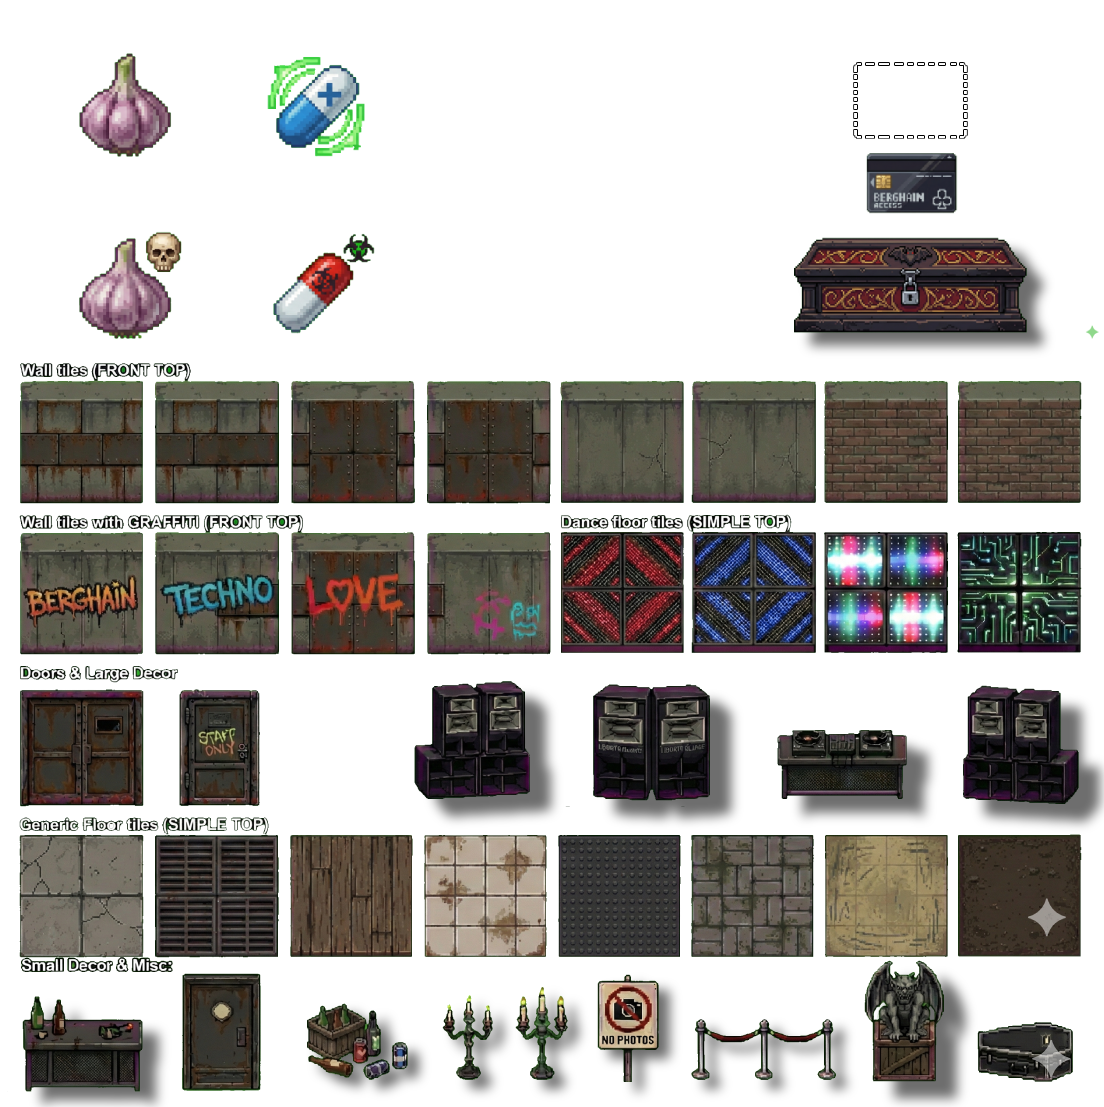
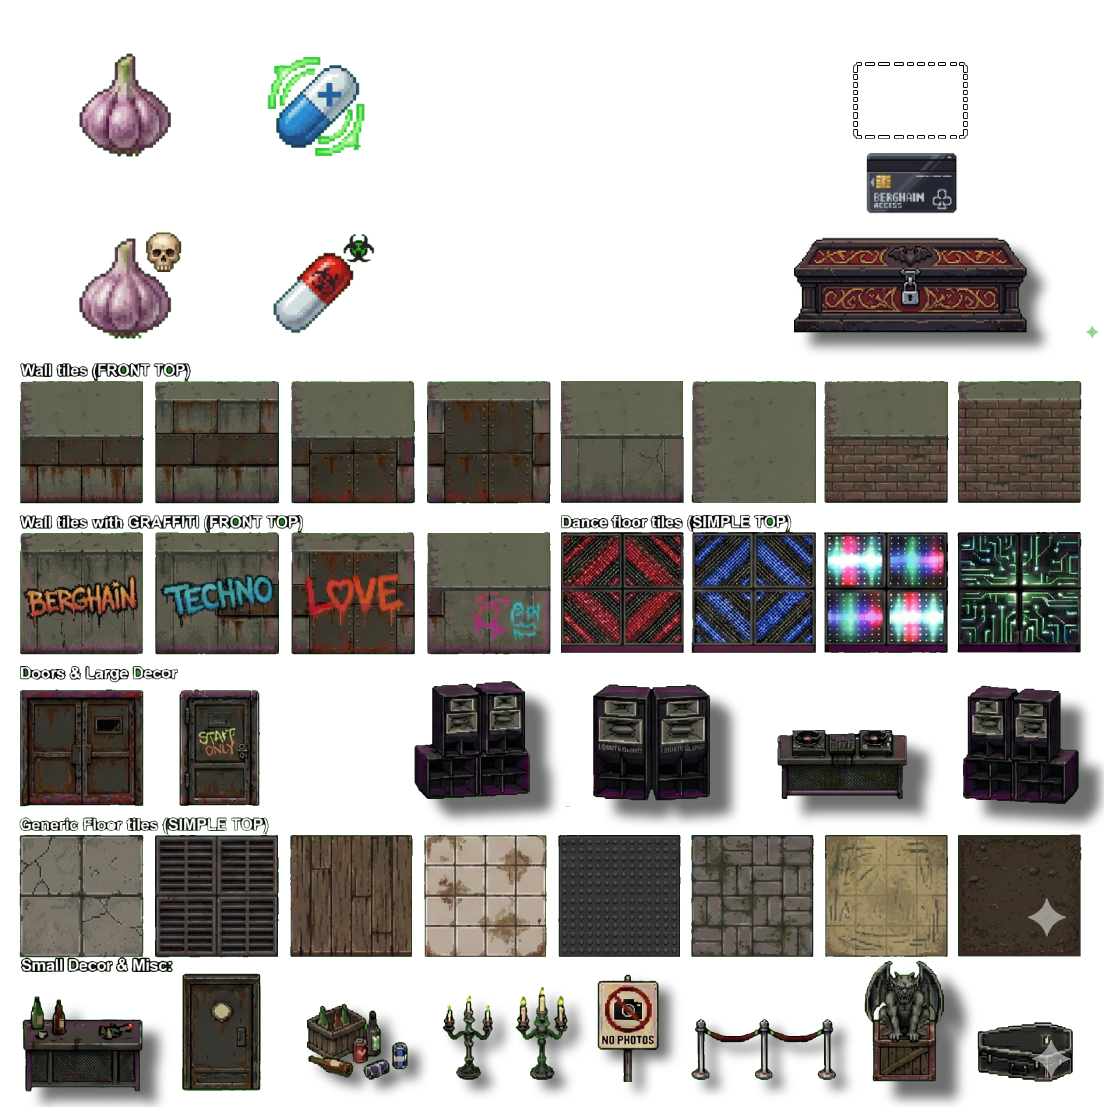
FEAT(assets): change the assets for 2.5d effect

diff --git a/core/src/de/tum/cit/fop/maze/MazeRunnerGame.java b/core/src/de/tum/cit/fop/maze/MazeRunnerGame.java
@@ -74,6 +74,7 @@ public class MazeRunnerGame extends Game {
     private TextureRegion wallTile6;
     private TextureRegion wallTile7;
     private TextureRegion wallTile8;
+    private TextureRegion buildingTile;
 
     private TextureRegion decor1;
     private TextureRegion decor2;
@@ -482,6 +483,7 @@ public class MazeRunnerGame extends Game {
             TextureRegion wallTexture1 = new TextureRegion(assetsSheet, 18,382,120,120);
             TextureRegion wallTexture2 = new TextureRegion(assetsSheet, 293,382,120,120);
             TextureRegion wallTexture3 = new TextureRegion(assetsSheet, 563,382,120,120);
+            TextureRegion buildingTexture = new TextureRegion(assetsSheet, 694,382,120,120);
             TextureRegion wallTexture4 = new TextureRegion(assetsSheet, 824,382,120,120);
             TextureRegion wallTexture5 = new TextureRegion(assetsSheet, 18,533,120,120);
             TextureRegion wallTexture6 = new TextureRegion(assetsSheet, 157,533,120,120);
@@ -546,7 +548,7 @@ public class MazeRunnerGame extends Game {
 
             this.casketTile = casketTexture;
 
-
+            this.buildingTile = buildingTexture;
 
 
             this.exitClosedTexture = exitTexture;
@@ -987,5 +989,9 @@ public class MazeRunnerGame extends Game {
 
     public TextureRegion getStartAchievement() {
         return startAchievement;
+    }
+
+    public TextureRegion getBuildingTile() {
+        return buildingTile;
     }
 }

diff --git a/core/src/de/tum/cit/fop/maze/UI/HUD.java b/core/src/de/tum/cit/fop/maze/UI/HUD.java
@@ -119,7 +119,6 @@ public class HUD {
     }
 
     public void createArrow(){
-
        if(!hasArrow){
            arrow = new Image(game.getArrow());
            //arrowTable.add(arrow).center().width(150).height(150);
@@ -173,7 +172,6 @@ public class HUD {
 
     }
     public void rotateArrow(){
-
         if(exit!=null){
             arrowFollow();
             arrow.setOrigin(Align.center);
